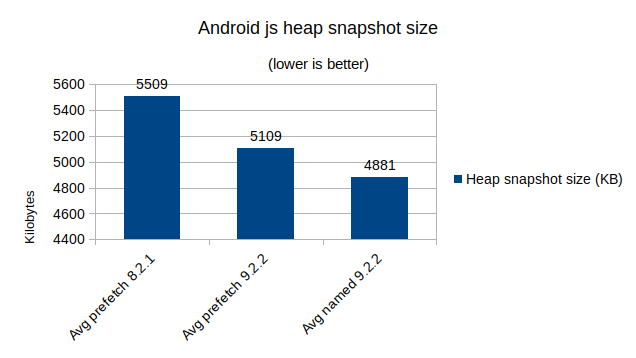
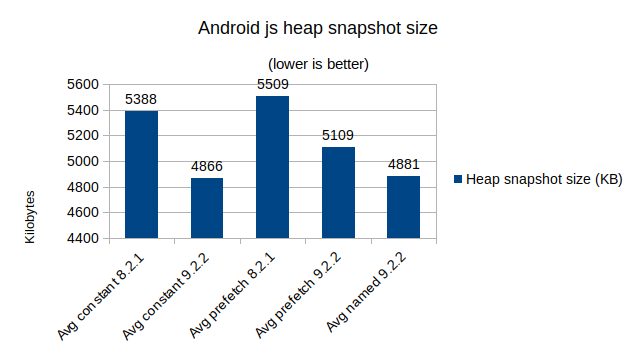
Update charts

diff --git a/Readme.md b/Readme.md
@@ -3,6 +3,8 @@
 * `prefetch 8.2.1` - stats for the application compiled with SDK 8.2.1 and `colors-with-fetch.js`
 * `prefetch 9.2.2` - SDK 9.2.2 and `colors-with-fetch.js`
 * `named 9.2.2` - SDK 9.2.2 and `colors-only-name.js`
+* `constant 8.2.1` - one color in constant string (no semantic colors), SDK 8.2.1
+* `constnat 9.2.2` - one color in constant string (no semantic colors), SDK 9.2.2
 
 Note: named color were added in [TIMOB-27895](https://jira.appcelerator.org/browse/TIMOB-27895) (SDK 9.1.0)
 
